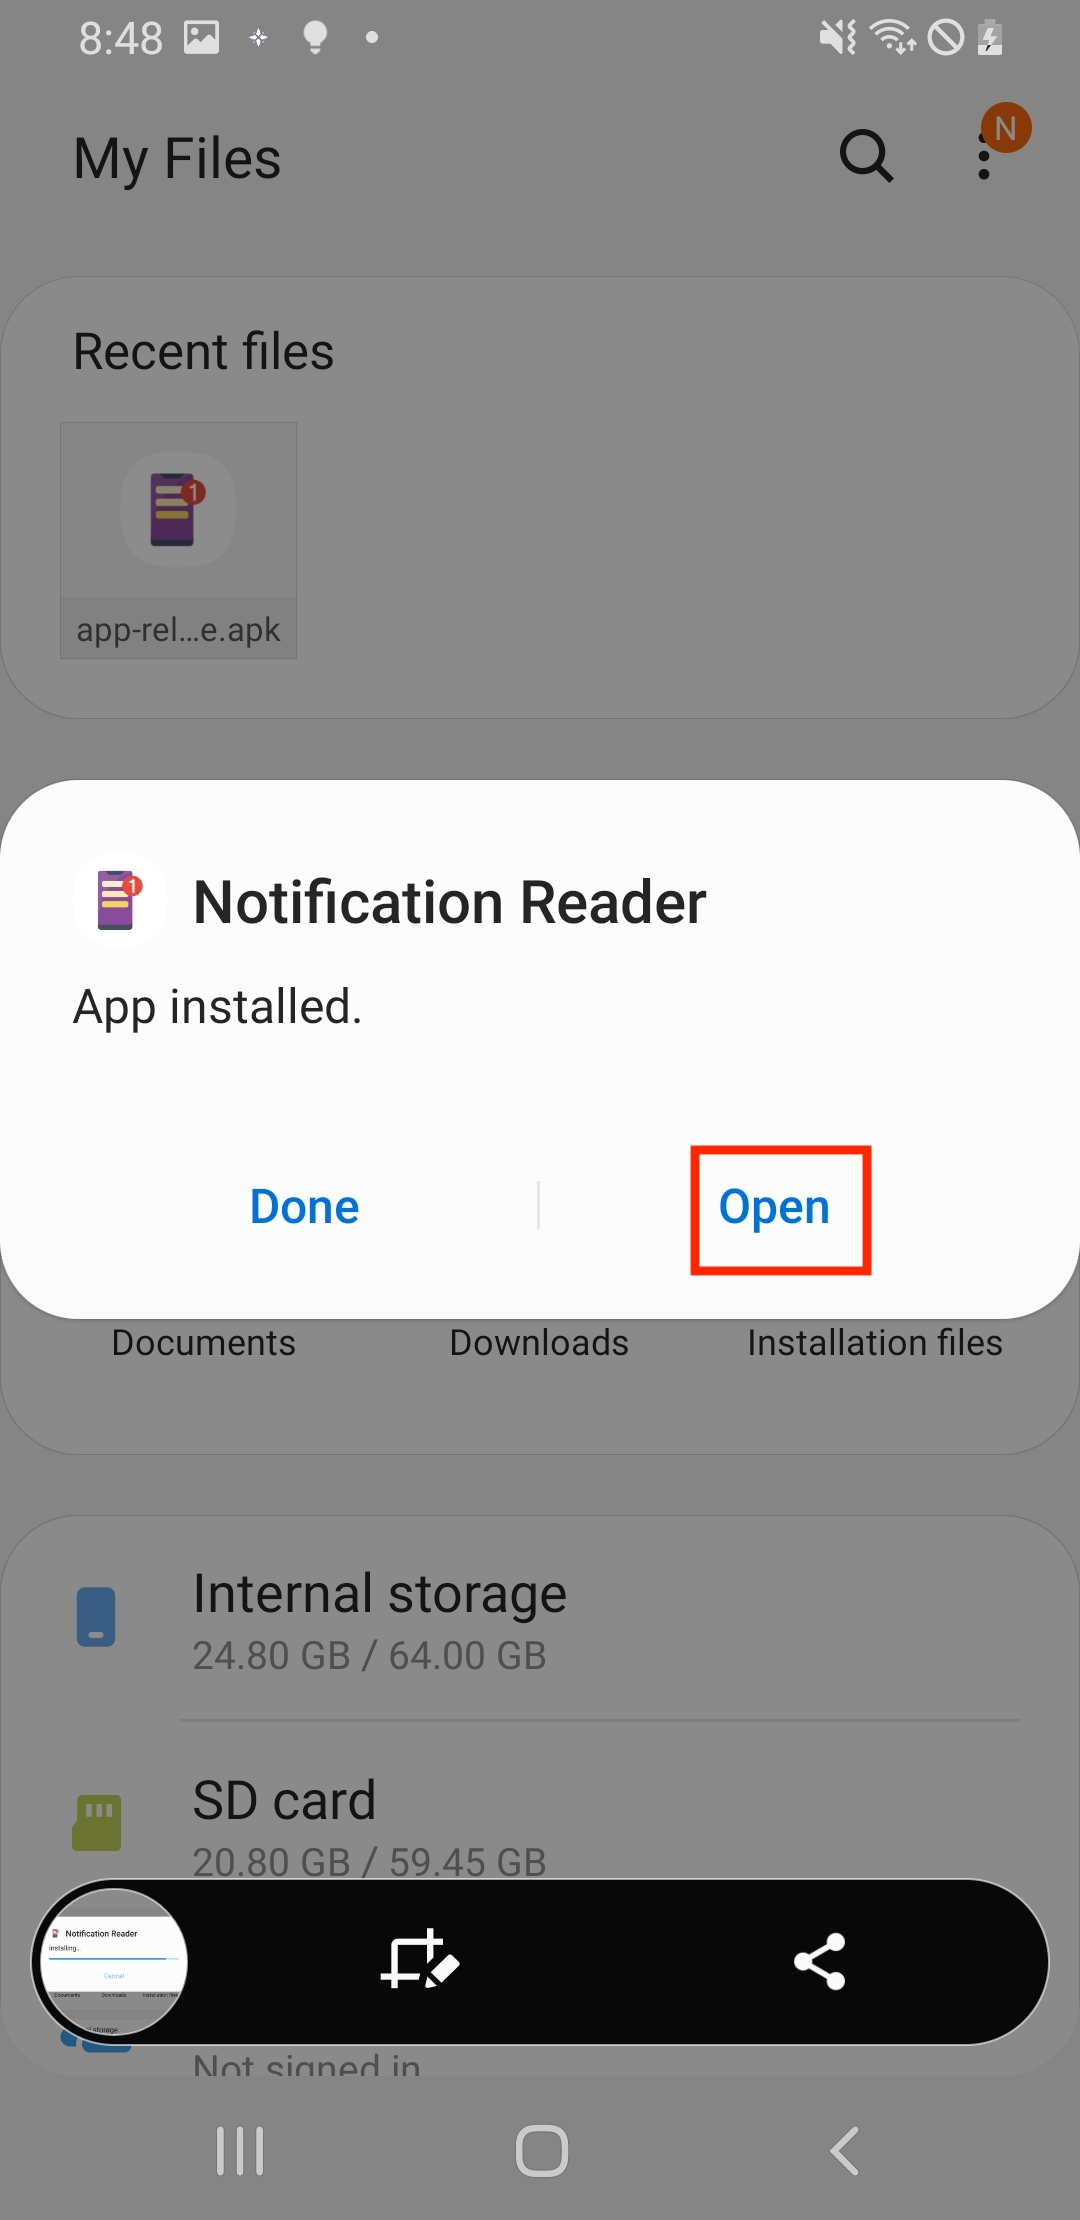
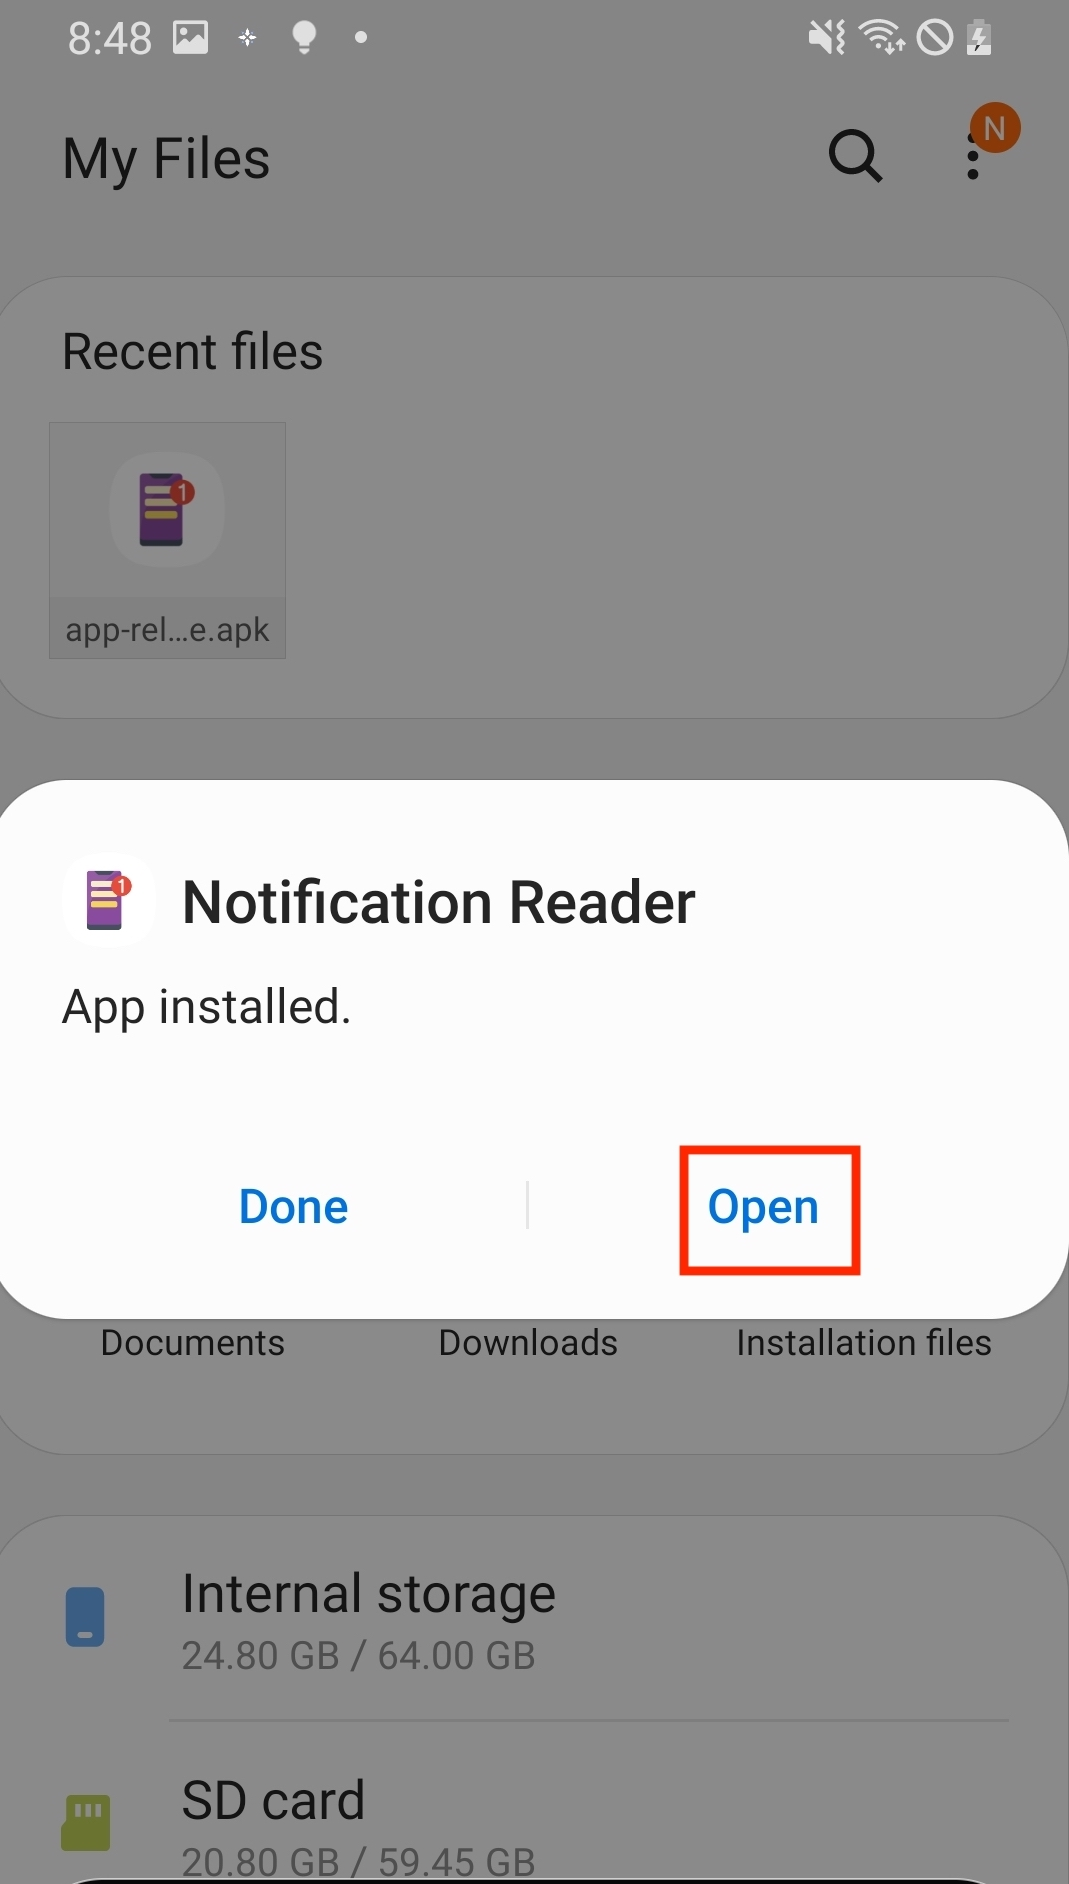
instruction images and instructions

diff --git a/instructions.html b/instructions.html
@@ -17,14 +17,72 @@
     <main>
         <div class="container">
             <h2>Installation Instructions</h2>
-            <!-- Add your instructions content here -->
-            <p>This page will contain detailed instructions for participants on how to use the SIREN application and participate in the study.</p>
+            
+            <p>1. To begin the installation process, get out your Android device in which you have WhatsApp installed. Ensure the device is connected to the internet. Open the web browser on this device and navigate to the Stanford WhatsApp Study website at rossdahlke.github.io/siren. This is the official site where you'll find all the necessary information and download the study application. If you have not already, please read the Informed Consent, Terms of Service, Privacy Notice tabs.</p>
+            <img src="siren-instructions-screenshots/1.jpg" alt="Step 1">
+
+            <p>2. After carefully reading the study information and considering your participation, click on the "Download APK" button highlighted in red at the bottom of the page. This will begin the process of downloading the Stanford WhatsApp Study application to your Android device.</p>
+            <img src="siren-instructions-screenshots/2.jpg" alt="Step 2">
+
+            <p>3. On the Download APK page, you'll see a password field. Enter the password provided to you by the research team in the survey in this field. This security measure ensures that only authorized participants can access the application. After entering the password, click the "Submit" button to proceed with the download.</p>
+            <img src="siren-instructions-screenshots/3.jpg" alt="Step 3">
+
+            <p>4. After entering the correct password, you'll see a "Download SIREN APK" button. Click on this button to start the download process. A pop-up window will appear asking if you want to download the file or open it. Select the "Download" option to save the APK file to your device. This step ensures that you have the SIREN application file on your Android device, ready for installation in the next steps.</p>
+            <img src="siren-instructions-screenshots/4.jpg" alt="Step 4">
+
+            <p>5. Once the APK file has finished downloading, you'll need to locate it on your device. Open your device's file manager by tapping on the "My Files" app (highlighted in red). If you don't see this app immediately, you may need to search for it using the functionality on your personal device, as shown in the image where "files" is being searched. On most Android devices, this search bar can be accessed by "swiping down" on your device's homescreen. From there, search "files" or "myfiles" to locate your files folder.</p>
+            <img src="siren-instructions-screenshots/5.jpg" alt="Step 5">
+
+            <p>6. In the "My Files" app, you should see the recently downloaded APK file in the "Recent files" section at the top of the screen. If you do not see the siren app file, you may need to search for the file. To search for the file, click on the magnifying glass icon in the top right corner of the screen. If you still don't see the file, you may need to look in the "Downloads" folder or "Installation files" category. Then, search "siren" for the application file to appear. Tap on this file to continue the installation process. 
+            </p>
+            <img src="siren-instructions-screenshots/6.jpg" alt="Step 6">
+
+            <p>7. When you tap on the APK file, you may see a security warning stating that your phone is not allowed to install unknown apps from this source. This step is a standard Android security feature since you are downloading the application from the research team's website instead of the Google Play Store. To proceed with the installation, tap on the "Settings" button (highlighted in red). This will take you to a screen where you can allow installations from this source.</p>
+            <img src="siren-instructions-screenshots/7.jpg" alt="Step 7">
+
+            <p>8. On the "Install unknown apps" screen, you'll see an option labeled "Allow from this source" next to the My Files app icon. Toggle this switch to the ON position (highlighted in red). This action allows your device to install apps from sources other than the Google Play Store, which is necessary for installing the SIREN app. Be aware that enabling this option comes with a security warning, but it's required for installing the study application.</p>
+            <img src="siren-instructions-screenshots/8.jpg" alt="Step 8">
+
+            <p>9. After enabling the "Allow from this source" option, navigate back to the previous screen. You should now be able to proceed with the installation of the SIREN APK. Look for an "Install" button or option to continue with the app installation process. Remember, you're only allowing this for the purpose of installing the SIREN app for the Stanford WhatsApp Study, and you should be cautious about installing apps from unknown sources in general.</p>
+            <img src="siren-instructions-screenshots/9.jpg" alt="Step 9">
+
+            <p>10. You will now see a prompt asking, "Do you want to install this application?" The app is labeled as "Notification Reader," which is the SIREN app for the Stanford WhatsApp Study. To proceed with the installation, tap the "Install" button highlighted in red. This will continue the process of installing the SIREN application on your device.</p>
+            <img src="siren-instructions-screenshots/10.jpg" alt="Step 10">
+
+            <p>11. After initiating the installation, you may see a Google Play Protect warning. This is a security feature that notifies you when installing apps from outside the Google Play Store. The message indicates that Play Protect hasn't seen this app before and recommends a security scan. To proceed, tap the "Scan app" button highlighted in red. This will allow Google to perform a quick security check on the SIREN app before installation. This extra step helps ensure the safety of your device while installing the study application. We highly recommend that you do scan the application.</p>
+            <img src="siren-instructions-screenshots/11.jpg" alt="Step 11">
+
+            <p>12. After initiating the scan, you'll see a "Scanning..." screen from Google Play Protect. This process may take a few moments to complete. The screen informs you that "Scanning the app may take a little while. You'll see results on this screen." Please be patient and allow the scan to finish. This step is important for ensuring the safety and integrity of the SIREN app before installation. If you change your mind during this process, you can select "Cancel and don't install," but you will not be participating in the study and will not receive compensation for installing the application.</p>
+            <img src="siren-instructions-screenshots/12.jpg" alt="Step 12">
+
+            <p>13. After the Google Play Protect scan is complete, you'll see a message saying "This app looks safe" with a green checkmark next to the Notification Reader app icon. This indicates that the SIREN app has passed Google's security check. To proceed with the installation, tap the "Install" button highlighted in red. This will start the actual process of making the SIREN app accessible on your device.</p>
+            <img src="siren-instructions-screenshots/13.jpg" alt="Step 13">
+
+            <p>14. The installation process for the Notification Reader (SIREN) app is now underway. You'll see a progress bar indicating the status of the installation. This may take a few moments to complete. Please be patient and allow the installation to finish. Do not navigate away from this screen or turn off your device during this process. If you need to cancel the installation for any reason, you can tap the "Cancel" button, but this will abort the installation and you'll need to start over if you want to participate in the study.</p>
+            <img src="siren-instructions-screenshots/14.jpg" alt="Step 14">
+
+            <p>15. Once the installation is complete, you'll see a message saying "App installed." Next, click the "Open" button. This button will launch the SIREN app, allowing you to begin the setup process to ensure you device is properly configured to start participating in the study.</p>
+            <img src="siren-instructions-screenshots/15.jpg" alt="Step 15">
+
+            <p> Upon opening the Notification Reader app, you'll see a screen requesting you to turn on Notification Access. This is a crucial step for the app to function properly and collect the necessary data for the study. To proceed, tap the "Go to Settings" button highlighted in red at the bottom of the screen. This will take you to your device's settings where you can grant the required permissions for the app to access your notifications.</p>
+            <img src="siren-instructions-screenshots/16.jpg" alt="Step 16">
+
+            <p>17. In the Notification access settings screen, you'll see a list of apps that can access your notifications. Look for "SIREN" application in this list (highlighted in red). To grant the SIREN app permission to access your notifications, tap on the toggle switch next to "Notification Reader" to turn it on. This step is essential for the app to function properly and collect the necessary data for the Stanford WhatsApp Study.</p>
+            <img src="siren-instructions-screenshots/17.jpg" alt="Step 17">
+
+            <p>18. After tapping the toggle switch, a permission dialog will appear explaining the capabilities of the Notification Reader app. It informs you that the app will be able to read all your notifications, including personal information such as contact names and message content. In this study, we are primarily collecting and analyzing the notification message content. This level of access is necessary for the SIREN app to collect the required data for participation in this study. Note: in this application we do not have the capability to turn on or off your Do not disturb nor settings related to it. We will not be affecting your Do not disturb settings in any way. To proceed with the study, tap the "Allow" button highlighted in red. Remember, granting this permission is essential for participating in the research project.</p>
+            <img src="siren-instructions-screenshots/18.jpg" alt="Step 18">
+
+            <p>19. After granting permission, you'll be returned to the Notification access settings screen. You should now see that the toggle switch next to "Notification Reader" is turned on and highlighted in blue (as shown in the red box). This indicates that the SIREN app now has permission to access your notifications. With this step completed, the app is now properly configured to collect data for the study. You can now exit the settings and return to the Notification Reader app to complete the final step of the study setup process and to ensure your compensation for participating in the study.</p>
+            <img src="siren-instructions-screenshots/19.jpg" alt="Step 19">
+
+            <p>After successfully granting notification access, return to the SIREN app. You should now see a unique identifier code displayed on the screen (highlighted in red). Note that your code will differ than the example code displayed below. This code is your "SIREN ID" and is unique to you and your Android device. This identifier is crucial for the research team to link your data to your survey responses while maintaining your anonymity. Please make a note of this code or take a screenshot of this screen. You'll need to provide this code in the survey to confirm your participation and ensure you receive compensation for installing the app. With this step, you have completed the installation and setup process for the SIREN app for the Stanford WhatsApp Study. Please return to the survey, ready to input this code, to complete the survey portion of this study.</p>
+            <img src="siren-instructions-screenshots/19.jpg" alt="Step 20">
+
+            <p>If you have any difficulty installing the SIREN application and would like assistance in completing the installation and setup, please email Ross Dahlke, PhD Student, at rdahlke@stanford.edu. Thank you again for your participation.</p>
         </div>
     </main>
 
-    <footer>
-        <p>&copy; 2024 Stanford Social Media Lab. All rights reserved.</p>
-    </footer>
 
     <script src="footer.js"></script>
 </body>
